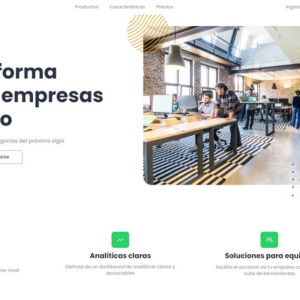
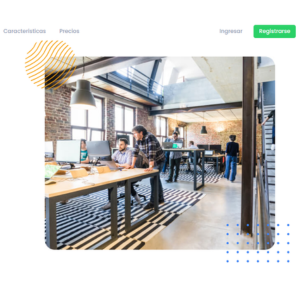
2nd Update!
Texts, fonts, accent color and portfolio images.

diff --git a/index.html b/index.html
@@ -6,8 +6,16 @@
     <title>Bruno Curtti Portfolio</title>
     <link rel="icon" type="/image/x-icon" href="./img/favicon.png" />
     <!-- Font -->
+
     <link
-      href="https://fonts.googleapis.com/css?family=Source+Code+Pro:400,900|Source+Sans+Pro:300,900&display=swap"
+      href="https://fonts.googleapis.com/css?family=Lora:400,700|Roboto+Slab:400,700&display=swap"
+      rel="stylesheet"
+    />
+
+    <link rel="preconnect" href="https://fonts.googleapis.com" />
+    <link rel="preconnect" href="https://fonts.gstatic.com" crossorigin />
+    <link
+      href="https://fonts.googleapis.com/css2?family=Lato:wght@300;700&display=swap"
       rel="stylesheet"
     />
 
@@ -59,11 +67,12 @@
         <div class="service">
           <h3>Full Stack Web Developer</h3>
           <p>
-            I´m a professional who possesses the skills and expertise to work on
-            both the front-end and back-end components of web applications. I´m
-            responsible for building and maintaining all aspects of a website or
-            web application, from the user interface that users interact with to
-            the server and database that store and manage data.
+            I´m a pasionate developer who possesses the skills to work on both
+            the front-end and back-end components of web applications. I´m
+            capable for building and maintaining all aspects of a website or web
+            application, from the user interface that users interact with to the
+            server and database that store and manage data. I enjoy constantly
+            challenging myself.
           </p>
         </div>
         <!-- / service -->
@@ -74,7 +83,8 @@
             As an E-Commerce Developer i´m focuses on creating, maintaining, and
             optimizing online shopping platforms and websites. My primary goal
             is to facilitate online transactions, improve user experience, and
-            ensure the smooth operation of e-commerce websites.
+            ensure the smooth operation of e-commerce websites. I enjoy the
+            process of growing my clients' sales.
           </p>
         </div>
         <!-- / service -->
@@ -84,10 +94,10 @@
           <p>
             As a WordPress Administrator i´m responsible for managing and
             overseeing the operation and maintenance of a WordPress website or
-            blog. WordPress is a popular content management system (CMS) used
-            for creating and managing websites and as administrators we play a
-            vital role in ensuring the website functions smoothly and
-            efficiently.
+            blog. As administrator i play a vital role in ensuring the website
+            functions smoothly and efficiently. I like to generate monthly
+            reports for my clients, be able to measure the results of my work
+            and take action.
           </p>
         </div>
         <!-- / service -->
@@ -106,28 +116,21 @@
 
       <div class="about-me__body">
         <p>
-          I consider my self like someone that constantly works on the habits of
-          the daily basis for improvements of pursuit the improvement of
-          technical skills, creativity, problem-solving abilities, and a strong
-          work ethic.
+          I consider my self like someone that consciously work on the daily
+          habits for improvement of technical skills, creativity, learning and
+          problem-solving abilities.
         </p>
 
         <p>
-          I´m in love of the idea of ourproficiency extends across the entire
-          web development stack, from front-end languages like HTML, CSS, and
-          JavaScript to back-end technologies like Node.js. I´ve have ability
-          for turning design concepts into interactive, user-friendly web
-          interfaces, demonstrating domain in front-end frameworks like React
-          for example.
+          I´ve have ability for turning design concepts into interactive,
+          user-friendly web interfaces, demonstrating domain in front-end
+          frameworks like React for example.
         </p>
 
         <p>
-          Above all, i´m driven by a relentless pursuit of excellence. I´m proud
-          of my progress on the work and pushing me to deliver beyond what's
-          expected. I´m in love of having the oportunity to waiking up every day
-          to be challenges, learn and growth. You feel pleasent with yourself
-          and that´s a little bit of my profesional escence that i try to pass
-          down.
+          I love having the opportunity to wake up every day to face challenges,
+          learn and growth. I feel pleasent with myself and that´s a little bit
+          of my profesional escence that i try to pass down.
         </p>
       </div>
 
@@ -152,16 +155,16 @@
         </a>
 
         <!-- Portfolio item 02 -->
+        <a href="https://magahealthyraw.com/" class="portfolio__item">
+          <img src="img/portfolio-03.png" alt="" class="portfolio__img" />
+        </a>
+
+        <!-- Portfolio item 03 -->
         <a
           href="https://brunocurtti.github.io/Testimonial_section/"
           class="portfolio__item"
         >
           <img src="img/portfolio-02.png" alt="" class="portfolio__img" />
-        </a>
-
-        <!-- Portfolio item 03 -->
-        <a href="https://magahealthyraw.com/" class="portfolio__item">
-          <img src="img/portfolio-03.png" alt="" class="portfolio__img" />
         </a>
 
         <!-- Portfolio item 04 -->

diff --git a/css/style.css b/css/style.css
@@ -7,15 +7,15 @@
 /* Custom Properties, update these for your own design */
 
 :root {
-  --ff-primary: "Source Sans Pro", sans-serif;
-  --ff-secondary: "Source Code Pro", monospace;
+  --ff-primary: 'Lato', sans-serif;
+  --ff-secondary: 'Roboto Slab', serif; 
 
   --fw-reg: 300;
-  --fw-bold: 900;
+  --fw-bold: 700;
 
   --clr-light: #fff;
   --clr-dark: #303030;
-  --clr-accent: #2cff67;
+  --clr-accent: #00cd71;
 
   --fs-h1: 3rem;
   --fs-h2: 2.25rem;
@@ -73,12 +73,13 @@ strong {
 
 .btn {
   display: inline-block;
-  padding: 0.5em 2.5em;
+  padding: 0.8em 3em;
   background: var(--clr-accent);
   color: var(--clr-dark);
+  border-radius: 30px;
   text-decoration: none;
   cursor: pointer;
-  font-size: 0.8rem;
+  font-size: 1rem;
   text-transform: uppercase;
   letter-spacing: 2px;
   font-weight: var(--fw-bold);
@@ -325,6 +326,7 @@ header {
 .service {
   max-width: 500px;
   margin: 0 auto;
+  letter-spacing: 1px;
 }
 
 @media (min-width: 800px) {
